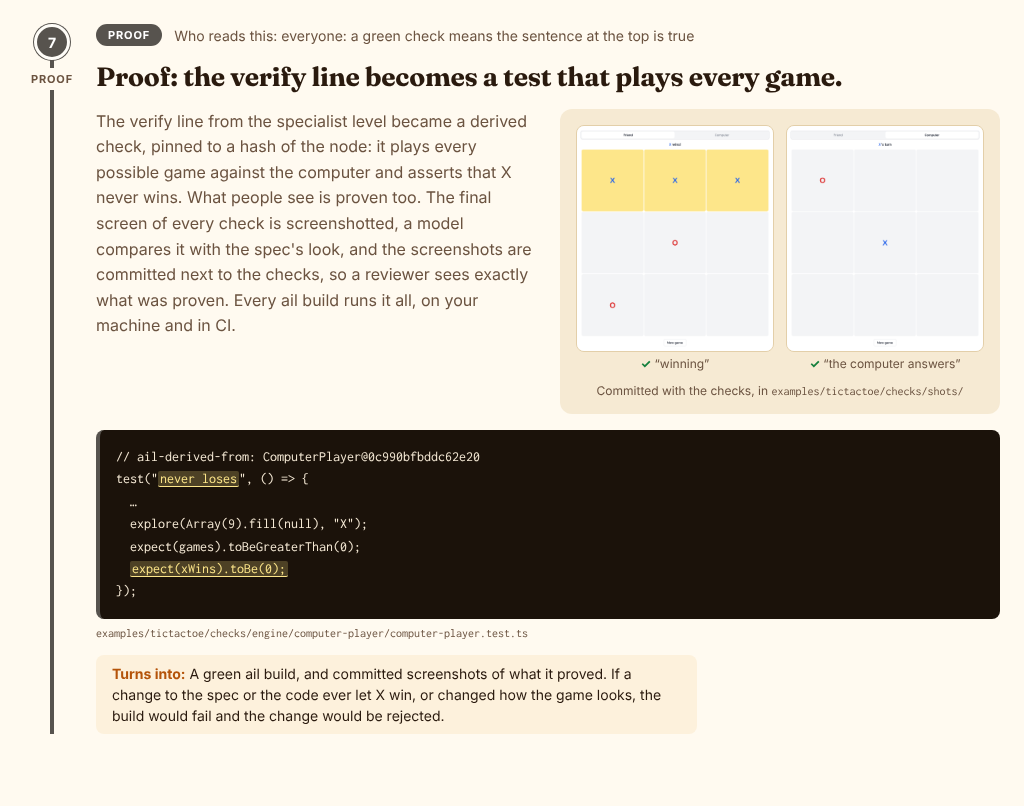
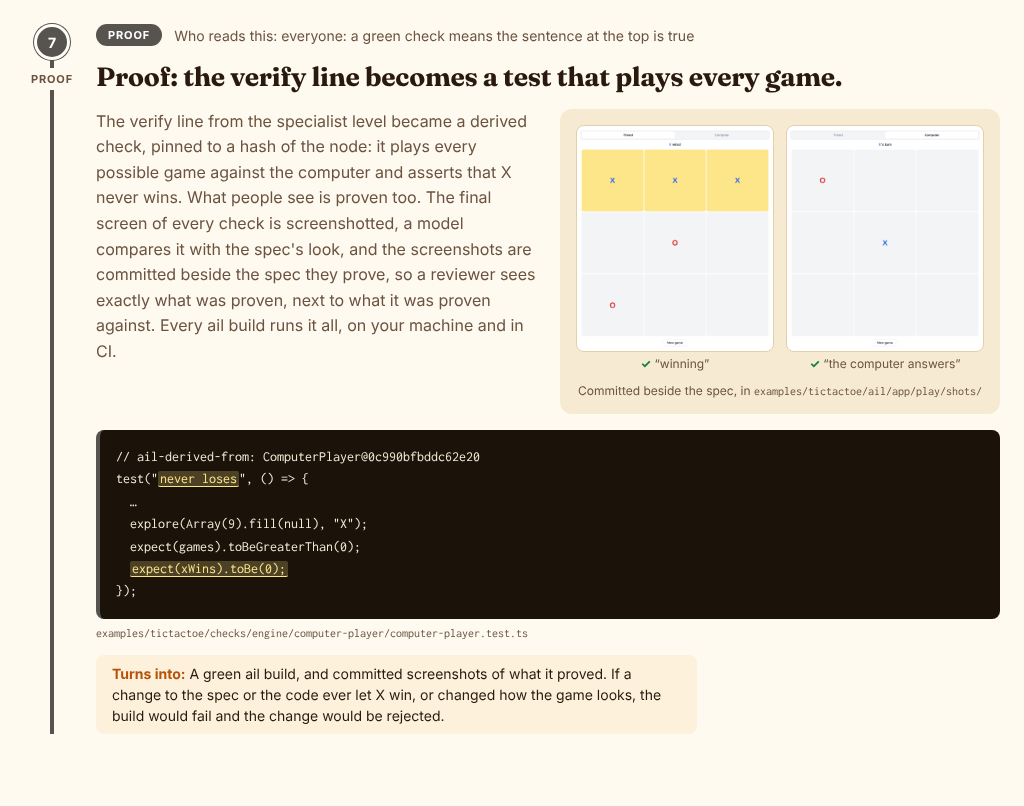
Move old screenshots before building, and never over newer ones
The site's build retook ProofScreens and StopProof, then the move from
checks/shots/ put the old images back over them. Moving now happens
first, and skips any node whose screenshots are already beside the spec.
Both screenshots are retaken.

Claude-Session: https://claude.ai/code/session_01KD7sVjcVqeCqHqFKbXksmM

Changed region(s): [[0.0938, 0.3102, 0.5312, 0.4342], [0.5625, 0.4653, 0.9375, 0.4963]]

diff --git a/src/build.ts b/src/build.ts
@@ -45,6 +45,8 @@ export async function build(p: Project, o: BuildOptions = {}): Promise<BuildResu
   if (errors.length) return { ok: false, text: formatDiagnostics(errors) + "\n\nfix the spec before building", outcomes: [], check: null, stopped: false };
   const jobs = o.jobs ?? 4;
   if (!Number.isInteger(jobs) || jobs < 1) throw new Error(`--jobs must be a whole number of at least 1, got "${jobs}"`);
+  // Screenshots still in checks/shots/ move beside the spec first, so anything retaken below replaces them.
+  if (moveLegacyShots(p)) log("proof screenshots moved beside the spec, into each spec folder's shots/");
   // A project's first build is the moment to set up review of what it generates.
   const firstBuild = Object.keys(readLock(p).nodes).length === 0;
   const specs = resolveModels(o.models ?? [], p.config.models);
@@ -120,7 +122,6 @@ export async function build(p: Project, o: BuildOptions = {}): Promise<BuildResu
 /** Retake the committed screenshots that are out of date and remove orphaned ones. True when anything changed. */
 async function refreshShots(p: Project, log: (s: string) => void): Promise<boolean> {
   let changed = moveLegacyShots(p);
-  if (changed) log("proof screenshots moved beside the spec, into each spec folder's shots/");
   for (const dir of orphanShots(p)) { clearShots(dir); changed = true; }
   for (const n of staleShots(p)) {
     try {

diff --git a/src/shots.ts b/src/shots.ts
@@ -203,8 +203,9 @@ export function orphanShots(p: Project): string[] {
 
 /**
  * Move screenshots from where they used to be kept (checks/shots/) to beside
- * the spec, by the node each index names. Those of nodes that are gone are
- * dropped. True when there was anything to move.
+ * the spec, by the node each index names. Those of nodes that are gone, and
+ * those already retaken beside the spec, are dropped. True when there was
+ * anything to move.
  */
 export function moveLegacyShots(p: Project): boolean {
   const old = legacyShotsDir(p);
@@ -215,7 +216,8 @@ export function moveLegacyShots(p: Project): boolean {
     const n = p.nodes.get(idx.node);
     if (!n) continue;
     const to = f.split("/")[0] === "e2e" ? e2eShotsDir(p, n) : nodeShotsDir(p, n);
-    clearShots(to);
+    // Screenshots already beside the spec are newer: they are kept.
+    if (existsSync(join(to, "shots.json"))) continue;
     mkdirSync(to, { recursive: true });
     for (const file of readdirSync(from)) if (!statSync(join(from, file)).isDirectory()) renameSync(join(from, file), join(to, file));
   }

diff --git a/tests/shots-place.test.ts b/tests/shots-place.test.ts
@@ -44,6 +44,17 @@ test("screenshots kept in checks/shots/ are moved beside the spec, and those of 
   expect(moveLegacyShots(p)).toBe(false);
 });
 
+test("screenshots already retaken beside the spec are not replaced by old ones from checks/shots/", () => {
+  const dir = tempProject("areas");
+  const p = load(dir);
+  const price = p.nodes.get("Price")!;
+  shotsIn(nodeShotsDir(p, price), "Price", ["01-new.png"]);
+  shotsIn(join(legacyShotsDir(p), price.dir, "price"), "Price", ["01-old.png"]);
+  expect(moveLegacyShots(p)).toBe(true);
+  expect(readdirSync(nodeShotsDir(p, price)).sort()).toEqual(["01-new.png", "shots.json"]);
+  expect(existsSync(legacyShotsDir(p))).toBe(false);
+});
+
 test("clearing a node's screenshots keeps its end-to-end ones, and removes the shots/ folder once empty", () => {
   const dir = tempProject("areas");
   const p = load(dir);
